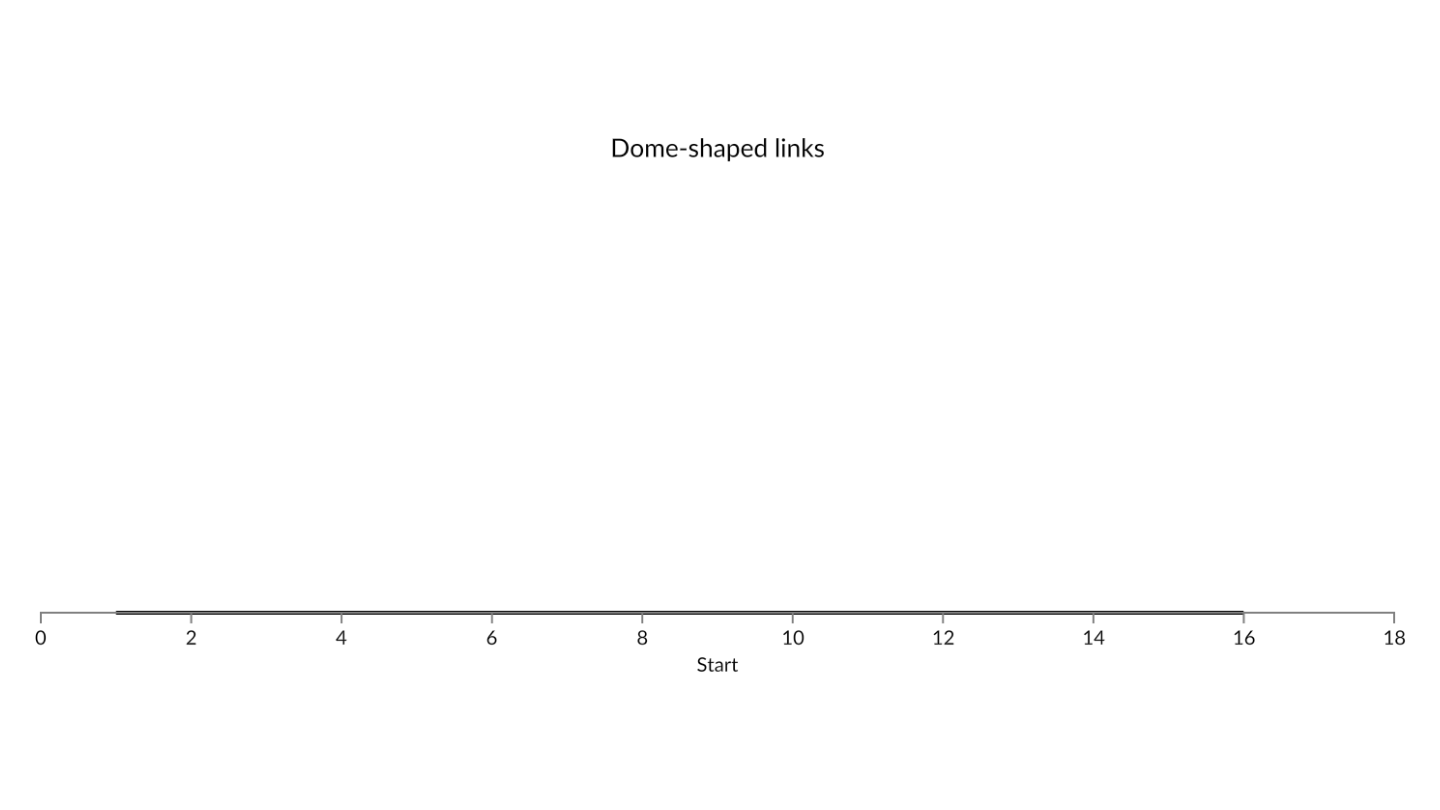
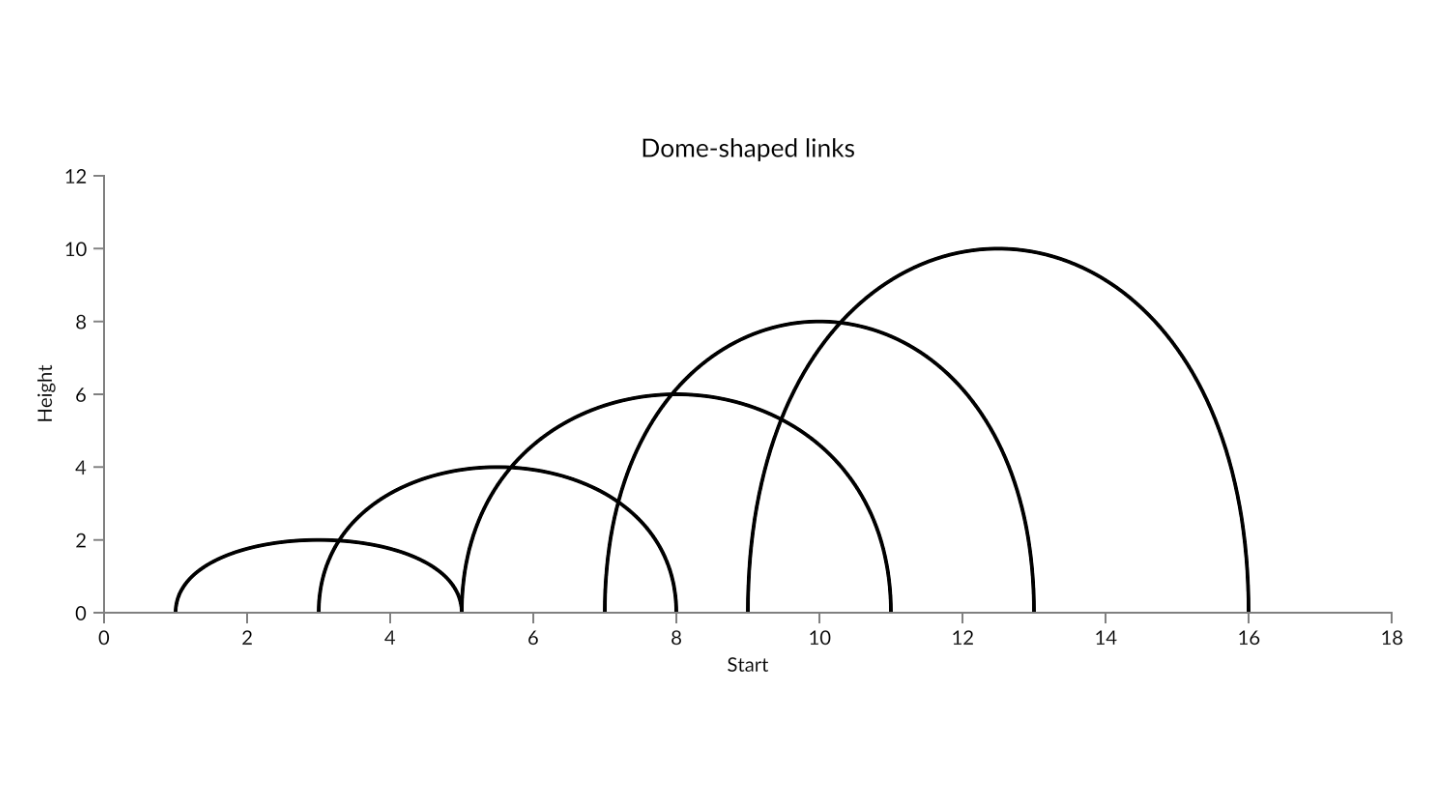
docs(gallery): refresh visualization thumbnails

diff --git a/CHANGELOG_STAGING.md b/CHANGELOG_STAGING.md
@@ -1,0 +1,251 @@
+# Changelog Staging
+
+## 2026-08-24
+
+- Refreshed gallery thumbnails and corrected oncoprint, BAM, link-mark, and
+  LUAD oncoprint layouts for complete, usable visualizations.
+- Added Altair BSD-3-Clause attribution and license materials to source files,
+  documentation, package metadata, and built distributions.
+- Removed tabular data previews from documentation gallery example pages.
+- Fixed invalid CI workflow YAML in the wheel license-metadata check.
+- Fixed nonexistent setup-uv action versions across all GitHub workflows.
+- Reduced package CI to package-focused tests and removed AlphaGenome-only test
+  modules, while keeping codegen tests in their dedicated job.
+
+## 2026-08-20
+
+- Fixed oncoprint gene ordering so genes altered in the same number of samples
+  keep a stable, reproducible order across platforms.
+- Added the packaging metadata for publishing to PyPI: MIT license, authors,
+  keywords, classifiers, and project URLs.
+
+## 2026-08-19
+
+- Fixed documentation site rendering after the Furo switch: the landing page
+  regained its navigation and search, the gallery no longer repeats its example
+  list below the cards, and card thumbnails fill the full card width.
+
+## 2026-08-18
+
+- Added links to the upstream GenomeSpy documentation across the user guide,
+  getting started, landing, About, and API reference pages.
+- Restructured the API reference into a grouped index with one page per public
+  object, replacing the single-page member dump.
+
+## 2026-08-13
+
+- Refined the documentation gallery examples with shared scales, typed channel
+  and layout builders, simpler composition, and corrected oncoprint alignment.
+
+## 2026-08-12
+
+- Added the notebook-local AlphaGenome-PyTorch TAL1 perturbation explorer with
+  stable Arrow-backed sequence and prediction datasets.
+- Fixed Marimo live-dataset updates when binary payload synchronization follows
+  the revision trait.
+- Removed superseded non-model Marimo examples and standalone development
+  scripts.
+
+## 2026-08-11
+
+- Added a TCGA-BRCA PIK3CA mutation lollipop plot to the documentation gallery,
+  including responsive collision-aware labels and protein-domain context.
+
+## 2026-08-10
+
+- Prepared live anywidget dataset updates in thematic commits: Core 0.83.1
+  schema regeneration, direct in-place dataset updates, and reactive Marimo
+  documentation with regression coverage.
+- Committed the refreshed README, including named live-dataset updates with
+  `view.set_dataset(...)`, as `0717448`.
+
+## 2026-08-08
+
+- Added automatic Arrow IPC rendering for supported dataframe inputs across
+  notebooks and the documentation gallery, including packaged GISTIC example
+  data, lifecycle coverage, and the corresponding build guards.
+
+## 2026-08-07
+
+- Generated the full typed public chart API from the GenomeSpy schema: exact
+  chart/composition/import constructors, direct schema fluent setters,
+  branch-aware constant channels, parameter descriptions, and generated API
+  documentation inventory. Added PEP 561 typing support and regression
+  coverage for editor and external type-checker signatures.
+
+## 2026-06-24
+
+- Committed the initial `uv` library scaffold, core GenomeSpy chart/notebook
+  implementation, and built-in example dataset support using conventional
+  commit messages.
+
+## 2026-06-25
+
+- Committed npm-backed GenomeSpy schema generation infrastructure and
+  Altair-style chart API/example updates using conventional commit messages.
+
+## 2026-07-02
+
+- Committed schema-backed validation, generated mark mixins, pinned runtime
+  URLs, codegen freshness checks, and cleaned notebook examples in separate
+  conventional commits.
+- Committed generated wrappers for all GenomeSpy encoding channels while
+  preserving the existing public shorthand and locus API.
+- Committed the Altair-style migration of `Chart` to direct generated
+  `UnitSpec` inheritance with schema-backed copy semantics.
+- Committed the GenomeSpy core 0.80.0 upgrade, schema-derived channel nested
+  setters, and resolved generated-wrapper constructor signatures in separate
+  conventional commits.
+
+## 2026-07-07
+
+- Committed the Sphinx documentation site and interactive example gallery in
+  two conventional commits: a `docs:` feature commit (pydata-sphinx-theme + MyST
+  site, landing showcase, generated gallery from `docs/examples`, Playwright
+  thumbnail rendering, and the build/deploy workflow) and a separate `test:`
+  commit validating that gallery examples build valid specs.
+- Left the pre-existing uncommitted schema-typing work (`src/genome_spy/schema`,
+  codegen tools, schema tests, example notebooks) out of this session's commits
+  as unrelated changes.
+
+## 2026-07-07 (schema typing)
+
+- Committed the typed schema-generation arc in three conventional commits:
+  `feat(schema)` for the schema-derived constructor/setter types plus the
+  `_typing.py` alias layer and `_kwds.py` TypedDict helpers (and regenerated
+  package), `test(schema)` for the accompanying codegen/package/chart tests, and
+  `docs(examples)` for the Manhattan gallery and genomic interval notebooks.
+- Left an unrelated AGENTS.md whitespace reflow uncommitted.
+
+## 2026-07-13
+
+- Committed the x2/y2 schema-type fix, the iframe reveal-on-stable sizing fix
+  (eliminates the visible chart resize on gallery detail pages), the Manhattan
+  plot's rewrite onto real HapMap data, and a batch of new real-data gallery
+  examples (QQ, volcano, ASCAT copy-number/allele-specific, TCGA oncoprint,
+  PIK3CA lollipop) plus two synthetic placeholders and the vendored airway
+  RNA-seq counts, in five separate conventional commits.
+- Added `.DS_Store` to `.gitignore` and removed stray macOS files that had
+  appeared as untracked.
+
+## 2026-07-14
+
+- Committed the gallery thumbnail rendering follow-up as a focused
+  `fix(docs-gallery)` slice: Playwright now waits for live charts to settle,
+  scales them into the fixed card viewport more reliably, and the docs tests
+  cover the renderer layout helper plus PNG-required thumbnail behavior.
+- Committed the public API/data ergonomics slice as `feat(api)`: added
+  Altair-style helper constructors, schema-backed lazy data builders, packaged
+  example datasets, airway preprocessing helpers, and the corresponding chart
+  and dataset regression coverage plus dependency/artifact updates.
+- Committed the remaining docs/examples refresh as `docs(examples)`: updated
+  the Sphinx/gallery configuration, docs styling and README examples, vendored
+  the curated LAML oncoprint payload for docs provenance, and expanded the
+  real-data example set with cleaner authoring and plot-family categorization.
+- Committed a repo cleanup as `chore(repo)`: ignored local-only assistant and
+  staging files, removed the empty `scripts/` placeholder, and simplified the
+  public README/docs copy to stay user-facing.
+
+## 2026-07-15
+
+- Prepared a single conventional commit for the Altair-alignment follow-up:
+  generated config/property-setter ergonomics, thinner handwritten
+  chart/channel/helper plumbing, refreshed docs/examples/user-guide pages, and
+  regression coverage plus generated schema updates.
+- Reworked that session into three thematic commits after undoing the first
+  bundled attempt: `feat(schema): add generated property setters`,
+  `refactor(api): simplify chart and helper plumbing`, and
+  `docs(api): refresh examples and guides`.
+
+## 2026-07-26
+
+- Committed the fluent chart-authoring API and generated schema updates as
+  `feat(api)`, prepared gallery datasets as `feat(datasets)`, and simplified
+  the documentation examples and data previews as `docs(examples)`.
+
+## 2026-07-30
+
+- Committed the GenomeSpy core 0.81.0 schema regeneration, contributor setup
+  documentation, and the stacked browser/LUAD viewport gallery changes as
+  three thematic commits.
+- Committed upstream-derived gallery examples, deterministic grammar datasets,
+  tracked PNG thumbnails, and zoom/stack API support as `db9e833`
+  (`feat(docs): add upstream genomic examples`).
+- Committed the PNG-only gallery policy and incremental Playwright capture
+  workflow as `69f773c` (`docs(gallery): require reviewed PNG thumbnails`).
+
+## 2026-08-04
+
+- Committed generated transform helpers, capability metadata, full root/import
+  wrapping, expanded public API coverage, and regression tests as `7eb5f80`
+  (`feat(api): expand generated grammar coverage`).
+- Committed the expanded BAM, Dynseq bQTL, stacked browser, and GISTIC gallery
+  examples with refreshed thumbnails and regression coverage as `4cf5d76`
+  (`docs(examples): expand genomic track showcases`).
+- Validation: Ruff formatting and linting, mypy, all 173 tests, and both
+  commits' pre-commit hooks passed.
+
+- Committed the published GenomeSpy core 0.82.0 schema regeneration as
+  `5a32637` (`chore(schema): upgrade GenomeSpy core to 0.82`).
+- Committed the explicit parameter/click anywidget bridge, Marimo dependency,
+  README instructions, and interaction notebook as `190f00c`
+  (`feat(notebook): add Marimo interaction bridge`).
+- Validation: Ruff, mypy, all 174 tests, Marimo's notebook checker, and both
+  commits' pre-commit hooks passed.
+- Followed up with `e994b97` (`fix(notebook): clean interaction listener
+  lifecycle`) after reviewing the re-embed cleanup path; targeted widget tests,
+  Ruff, mypy, and the commit hooks passed.
+- Committed the initial Polars-to-GenomeSpy Arrow IPC transport spike as
+  `8f789e4` (`feat(notebook): add Arrow IPC transport spike`), including the
+  binary widget trait, Blob URL lifecycle, serializer, notebook, and tests.
+- Validation: Ruff, mypy, 180 full-suite tests, focused Arrow/widget/notebook
+  tests, Marimo checks, browser rendering, and commit hooks passed.
+- Committed `bb0d04c` (`feat(notebook): add reactive Arrow updates`) with
+  latest-update-wins render revisions, per-render Blob URL cleanup, a reactive
+  Polars/Marimo notebook, and widget lifecycle assertions.
+- Validation: Ruff, mypy, 180 full-suite tests, focused tests, Marimo checks,
+  browser slider updates including rapid changes, and commit hooks passed.
+- Committed `8ca3157` (`perf(notebook): benchmark Arrow transport`) with a
+  deterministic multi-size Arrow-versus-JSON payload benchmark and README
+  usage instructions.
+- Validation: benchmark execution, Ruff, mypy, and commit hooks passed.
+- Committed `5d77800` (`feat(notebook): add mutation-impact prototype`) with a
+  deterministic offline Polars/Arrow notebook for reference, alternate, and
+  delta signal tracks plus README guidance.
+- Validation: Ruff, focused Arrow/widget/notebook tests, Marimo checks, browser
+  rendering and mutation replacement, and commit hooks passed.
+- Committed `afc618f` (`fix(notebook): enable mutation track picking`) with
+  explicit default tooltip handling and tooltip fields on signal marks.
+- Validation: Ruff, mypy, focused tests, Marimo checks, browser rendering, and
+  commit hooks passed; click-to-Python sync still needs a reliable probe.
+- Committed `5844268` (`feat(datasets): package mutation impact reference`) with
+  a deterministic JSON input, dataset-loader registration, notebook loading,
+  and regression coverage.
+- Validation: Ruff, mypy, 31 focused tests, Marimo checks, and commit hooks
+  passed.
+- Follow-up full-suite validation after the packaged-input change: 181 tests
+  passed.
+- Committed `1df8343` (`fix(notebook): mount interaction widget in Marimo`) so
+  the interaction demo wraps `JupyterChart` with `mo.ui.anywidget(...)` and
+  renders in Marimo's reactive UI surface.
+- Validation: Marimo check, Ruff, mypy, and focused widget tests passed.
+- Committed `a5ea2fa` (`fix(notebook): emit interaction demo output`) so the
+  final Marimo cell emits a visible `mo.vstack(...)` instead of returning its
+  markdown as a definition.
+- Validation: full pytest suite (181 tests), Ruff, mypy, Marimo check, and a
+  programmatic app-run smoke test passed.
+- Committed `79247e1` (`feat(notebook): harden Arrow IPC Marimo spike`) with a
+  Marimo-mounted one-shot Arrow widget, mixed primitive/nullable columns,
+  tooltip inspection, and visible-output regression coverage.
+- Validation: Ruff, mypy, Marimo checks, 19 focused tests, all 183 pytest tests,
+  and commit hooks passed.
+- Committed `1470bf5` (`fix(notebook): mount reactive Arrow demo in Marimo`)
+  with a valid initial Arrow payload, Marimo anywidget mounting, documented
+  re-embed state resets, and reactive-notebook output coverage.
+- Validation: Ruff, mypy, Marimo check, 20 focused tests, all 184 pytest tests,
+  a programmatic `ARROW1` payload smoke test, and commit hooks passed.
+- Committed `bddd14d` (`feat(datasets): use upstream tabular mutation sources`)
+  and `f5a5351` (`refactor(datasets): simplify wrangling helpers`) for the
+  dataset source migration and leaner wrangling APIs.
+- Validation: 142 non-gallery tests, four affected gallery examples, Ruff, and
+  mypy passed; unrelated gallery property failures remain.

diff --git a/plans/devlog.md b/plans/devlog.md
@@ -1,5 +1,54 @@
 # Dev Log
 
+## 2026-08-24 - Refreshed LUAD oncoprint thumbnail
+
+- Re-captured the complete LUAD composition so the burden and clinical tracks,
+  mutation matrix, summary bars, and lower heatmaps all appear in the gallery
+  card instead of showing only a cropped middle section.
+
+## 2026-08-24 - Compacted LUAD oncoprint layout
+
+- Reduced the live gallery viewport while retaining the chart's existing outer
+  scroll container, and narrowed the percentage summary column and adjacent
+  gaps between the mutation matrix and per-gene count bars.
+
+## 2026-08-24 - Fixed simple oncoplot live layout
+
+- Increased the gallery embed height to match GenomeSpy's rendered canvas and
+  narrowed the mutation legend to three columns, preventing the legend and
+  lower chart edge from being clipped or colliding with the count axis.
+
+## 2026-08-24 - Refreshed simple oncoplot thumbnail
+
+- Re-captured the LAML oncoplot with the complete burden bars, mutation matrix,
+  per-gene counts, and mutation legend fitted into a single gallery card.
+
+## 2026-08-24 - Fixed flat link-mark example
+
+- Added explicit dome heights to the link dataset and encoded the y channel so
+  the example renders curved links instead of zero-height baseline segments.
+
+## 2026-08-24 - Refreshed RefSeq and translation thumbnails
+
+- Re-captured the scored RefSeq gene and indexed-FASTA six-frame translation
+  thumbnails with full-canvas fitting so their labels and all reading frames
+  remain visible in the gallery cards.
+
+## 2026-08-24 - Refreshed chromosome ideogram thumbnail
+
+- Re-captured the cytoband ideogram with a full-canvas fit so all chromosome
+  segments and labels are visible in the gallery card.
+
+## 2026-08-24 - Refreshed Dynseq bQTL thumbnail
+
+- Re-captured the Dynseq reference/alternate allele thumbnail with a full-canvas
+  fit so both sequence-logo tracks remain visible in the gallery card.
+
+## 2026-08-24 - Fixed repeated BAM zoom-message marks
+
+- Moved the BAM example's one-row message data to the parent layer so its text
+  mark no longer inherits the full alignment dataset and renders once per read.
+
 ## 2026-08-24 - Simplified gallery metadata presentation
 
 - Removed unused `META["tags"]` values and the corresponding collector field;
